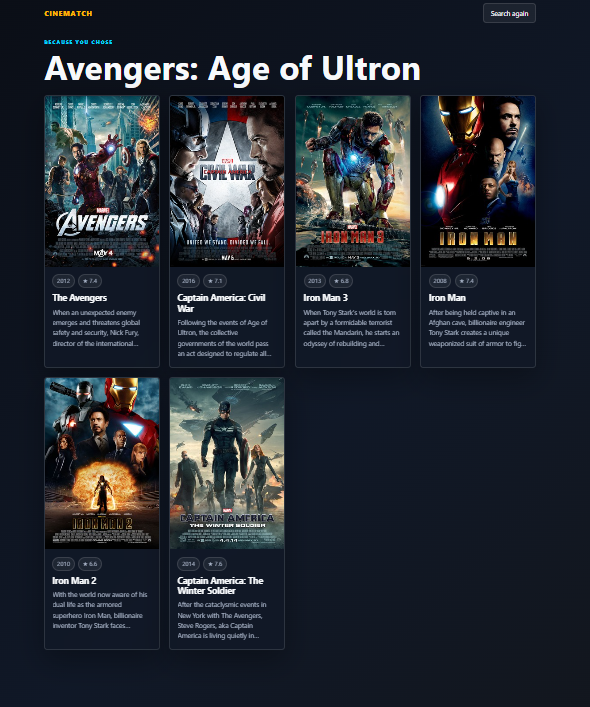
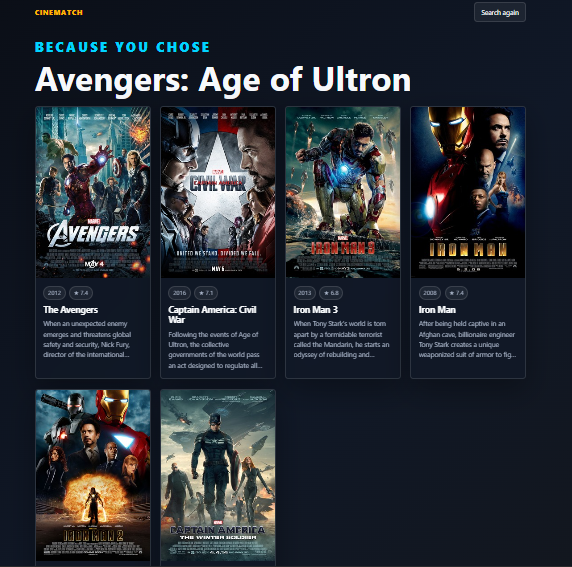
screenshots added

diff --git a/Backend/templates/recommend.html b/Backend/templates/recommend.html
@@ -70,7 +70,7 @@
         .eyebrow {
             margin: 0 0 10px;
             color: var(--accent-2);
-            font-size: 0.78rem;
+            font-size: 2rem;
             font-weight: 800;
             letter-spacing: 0.16em;
             text-transform: uppercase;
